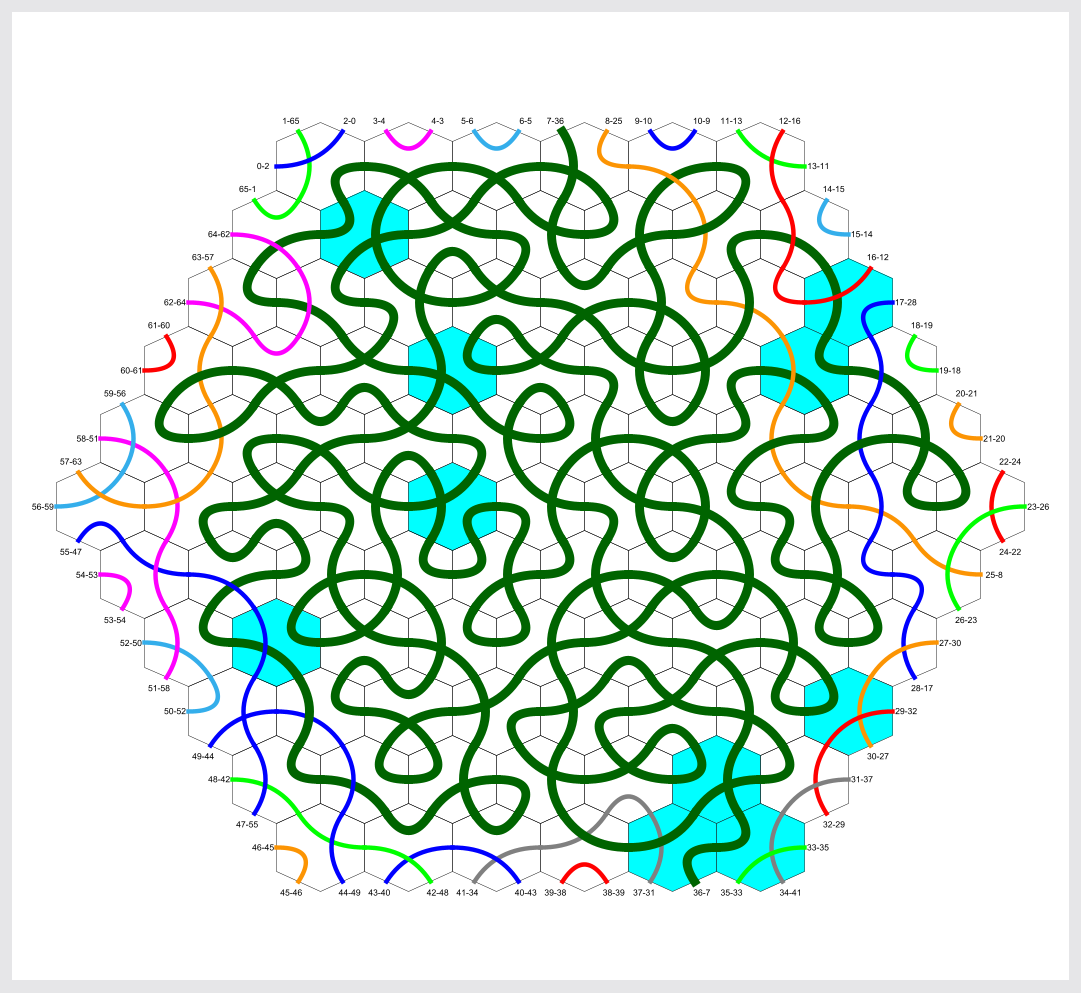
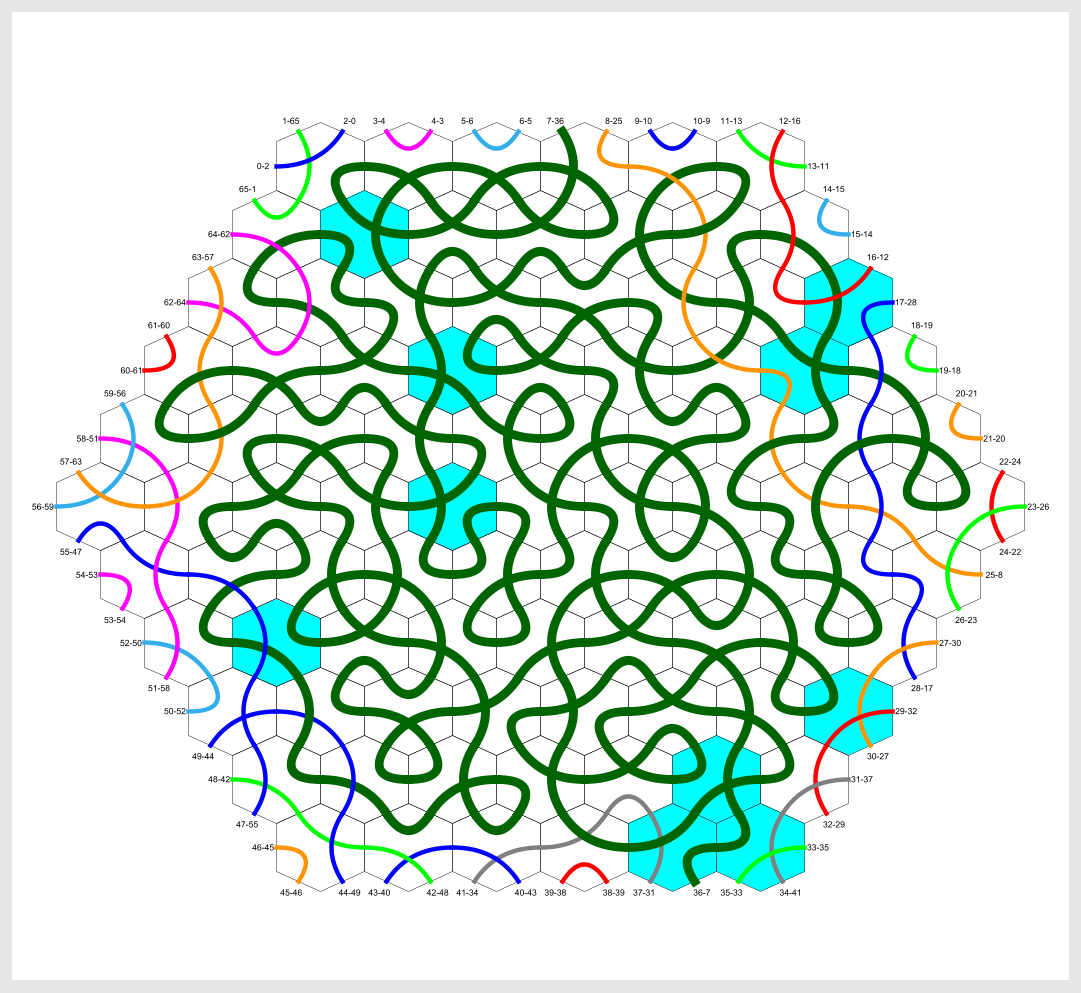
Add destruction-aware special path search

diff --git a/src/HexTiles.rs b/src/HexTiles.rs
@@ -50,7 +50,6 @@ struct Route {
     tiles: Vec<(usize, u8)>,
     length: usize,
     bonuses: usize,
-    rotations: i32,
 }
 
 #[derive(Clone)]
@@ -64,7 +63,14 @@ struct Node {
     bonuses: usize,
     rotations: i32,
     depth_sum: usize,
+    damaged: u128,
     seen: Vec<u64>,
+}
+
+struct DamageModel {
+    cell_masks: Vec<u128>,
+    contributions: Vec<i64>,
+    base: Stats,
 }
 
 struct Board {
@@ -161,6 +167,52 @@ impl Board {
         s.score = (s.matched as i64 * (s.total - self.M as i64 * s.moves as i64)).max(0);
         s
     }
+
+    fn damage_model(&self, orientation: &[u8]) -> DamageModel {
+        let mut cell_masks = vec![0u128; self.valid.len()];
+        let mut contributions = vec![0i64; self.pairs.len()];
+        for (id, pair) in self.pairs.iter().enumerate() {
+            let (end, len, bonuses) = self.trace(orientation, pair[0]);
+            if end != pair[1] { continue; }
+            contributions[id] = (len * (bonuses + 1)) as i64;
+            let (mut cell, mut enter) = self.exits[pair[0]];
+            for _ in 0..=3 * self.valid_count {
+                cell_masks[cell] |= 1u128 << id;
+                let out = paired_dir(orientation[cell], enter);
+                let Some((next, next_enter)) = self.next(cell, out) else { break; };
+                cell = next;
+                enter = next_enter;
+            }
+        }
+        DamageModel { cell_masks, contributions, base: self.evaluate(orientation) }
+    }
+
+    fn tester_safe(&self, orientation: &[u8]) -> bool {
+        let ports = self.valid.len() * 6;
+        let mut globally_seen = vec![false; ports];
+        for start in 0..ports {
+            if !self.valid[start / 6] || globally_seen[start] { continue; }
+            let mut local = std::collections::HashMap::new();
+            let mut state = start;
+            let mut step = 0usize;
+            loop {
+                if globally_seen[state] { break; }
+                if let Some(&began) = local.get(&state) {
+                    if step - began > 400 { return false; }
+                    break;
+                }
+                local.insert(state, step);
+                step += 1;
+                let cell = state / 6;
+                let enter = state % 6;
+                let out = paired_dir(orientation[cell], enter);
+                let Some((next, next_enter)) = self.next(cell, out) else { break; };
+                state = next * 6 + next_enter;
+            }
+            for state in local.keys() { globally_seen[*state] = true; }
+        }
+        true
+    }
 }
 
 fn bit_test(bits: &[u64], cell: usize) -> bool {
@@ -188,7 +240,22 @@ fn orientation_choices(board: &Board, fixed: &[i8], base: &[u8], cell: usize, en
     IntoIterator::into_iter(best).enumerate().filter_map(|(out, x)| x.map(|(o, c)| (out, o, c))).collect()
 }
 
-fn route_rank(board: &Board, node: &Node, target_cell: usize, width: usize, special: bool) -> i64 {
+fn damage_loss(model: &DamageModel, mut mask: u128) -> (usize, i64) {
+    let mut count = 0usize;
+    let mut total = 0i64;
+    while mask != 0 {
+        let id = mask.trailing_zeros() as usize;
+        mask &= mask - 1;
+        count += 1;
+        total += model.contributions[id];
+    }
+    (count, total)
+}
+
+fn route_rank(
+    board: &Board, node: &Node, target_cell: usize, width: usize, special: bool,
+    damage: Option<&DamageModel>,
+) -> i64 {
     let r = node.cell / board.W;
     let c = node.cell % board.W;
     let tr = target_cell / board.W;
@@ -196,8 +263,19 @@ fn route_rank(board: &Board, node: &Node, target_cell: usize, width: usize, spec
     let heuristic = (r.abs_diff(tr) + c.abs_diff(tc)) as i64;
     if special {
         // Length and bonuses reinforce one another. A small target heuristic keeps
-        // the beam capable of closing after taking a profitable detour.
-        180 * (node.length * (node.bonuses + 1)) as i64
+        // the beam capable of closing after taking a profitable detour.  Once the
+        // perimeter has been secured, depth is useful: it steers the reserved pair
+        // through a gate into otherwise unused interior tiles.
+        let intrinsic = (node.length * (node.bonuses + 1)) as i64;
+        let predicted_gain = if let Some(model) = damage {
+            let (lost_k, lost_t) = damage_loss(model, node.damaged);
+            let old_q = model.base.total - board.M as i64 * model.base.moves as i64;
+            let new_k = model.base.matched.saturating_sub(lost_k) + 1;
+            let delta_k = new_k as i64 - model.base.matched as i64;
+            let delta_q = intrinsic - lost_t - board.M as i64 * node.rotations as i64;
+            delta_k * old_q + new_k as i64 * delta_q
+        } else { 0 };
+        (if damage.is_some() { 40 * predicted_gain + 80 * intrinsic } else { 180 * intrinsic })
             - 12 * board.M as i64 * node.rotations as i64
             - 5 * heuristic
             - node.depth_sum as i64
@@ -221,7 +299,7 @@ fn reconstruct(arena: &[Node], mut id: usize) -> Route {
         id = n.parent;
     }
     tiles.reverse();
-    Route { tiles, length: last.length, bonuses: last.bonuses, rotations: last.rotations }
+    Route { tiles, length: last.length, bonuses: last.bonuses }
 }
 
 fn find_route(
@@ -232,6 +310,7 @@ fn find_route(
     target: usize,
     width: usize,
     special: bool,
+    damage: Option<&DamageModel>,
     deadline: Instant,
 ) -> Option<Route> {
     if Instant::now() >= deadline { return None; }
@@ -242,6 +321,7 @@ fn find_route(
         cell: start_cell, enter: start_side, placed_cell: usize::MAX,
         parent: usize::MAX, orientation: 255,
         length: 0, bonuses: 0, rotations: 0, depth_sum: 0, seen: vec![0; words],
+        damaged: 0,
     };
     let mut arena = vec![root];
     let mut beam = vec![0usize];
@@ -268,6 +348,9 @@ fn find_route(
                     bonuses: p.bonuses + board.bonus[p.cell] as usize,
                     rotations: p.rotations + rotation_cost(board.initial[p.cell], o),
                     depth_sum: p.depth_sum + board.boundary_depth[p.cell],
+                    damaged: p.damaged | if o != base[p.cell] {
+                        damage.map_or(0, |m| m.cell_masks[p.cell])
+                    } else { 0 },
                     seen,
                 };
                 if let Some((nc, ne)) = board.next(p.cell, out) {
@@ -296,7 +379,9 @@ fn find_route(
                 }
             }
         }
-        next_beam.sort_unstable_by_key(|&id| Reverse(route_rank(board, &arena[id], target_cell, width, special)));
+        next_beam.sort_unstable_by_key(|&id| Reverse(route_rank(
+            board, &arena[id], target_cell, width, special, damage,
+        )));
         next_beam.truncate(beam_width);
         beam = next_beam;
         if !special && !goals.is_empty() { break; }
@@ -321,17 +406,27 @@ fn pair_priority(board: &Board, pair: [usize; 2]) -> usize {
     ar.abs_diff(br) + ac.abs_diff(bc)
 }
 
-fn build_outer(board: &Board, width: usize, deadline: Instant) -> Vec<u8> {
+fn build_outer(
+    board: &Board,
+    width: usize,
+    reserved: &[usize],
+    deadline: Instant,
+) -> (Vec<u8>, Vec<i8>) {
     let mut orientation = board.initial.clone();
     let mut fixed = vec![-1i8; orientation.len()];
     let mut best = orientation.clone();
+    let mut best_fixed = fixed.clone();
     let mut best_stats = board.evaluate(&best);
-    let mut order: Vec<usize> = (0..board.pairs.len()).collect();
+    let mut order: Vec<usize> = (0..board.pairs.len())
+        .filter(|i| !reserved.contains(i))
+        .collect();
     order.sort_unstable_by_key(|&i| pair_priority(board, board.pairs[i]));
     for i in order {
         if Instant::now() >= deadline { break; }
         let pair = board.pairs[i];
-        if let Some(route) = find_route(board, &orientation, &fixed, pair[0], pair[1], width, false, deadline) {
+        if let Some(route) = find_route(
+            board, &orientation, &fixed, pair[0], pair[1], width, false, None, deadline,
+        ) {
             apply_route(&mut orientation, &mut fixed, &route, true);
             let stats = board.evaluate(&orientation);
             if (stats.score, stats.matched, stats.total - board.M as i64 * stats.moves as i64)
@@ -339,10 +434,11 @@ fn build_outer(board: &Board, width: usize, deadline: Instant) -> Vec<u8> {
             {
                 best_stats = stats;
                 best = orientation.clone();
+                best_fixed = fixed.clone();
             }
         }
     }
-    best
+    (best, best_fixed)
 }
 
 fn special_order(board: &Board) -> Vec<usize> {
@@ -352,42 +448,65 @@ fn special_order(board: &Board) -> Vec<usize> {
     ids
 }
 
-fn build_with_specials(
-    board: &Board,
-    outer: &[u8],
-    width: usize,
-    special_ids: &[usize],
-    count: usize,
-    deadline: Instant,
-) -> (Vec<u8>, i64, usize) {
-    let mut orientation = outer.to_vec();
-    let mut fixed = vec![-1i8; orientation.len()];
-    let mut chosen: Vec<usize> = Vec::new();
-    let mut special_value = 0i64;
-    let mut special_done = 0usize;
-    for _ in 0..count.min(special_ids.len()) {
-        let mut pick: Option<(i64, i64, usize, Route)> = None;
-        for &id in special_ids {
-            if chosen.contains(&id) || Instant::now() >= deadline { continue; }
-            let p = board.pairs[id];
-            if let Some(route) = find_route(board, &orientation, &fixed, p[0], p[1], width, true, deadline) {
-                let mut trial = orientation.clone();
-                let mut ignored = fixed.clone();
-                apply_route(&mut trial, &mut ignored, &route, false);
-                let stats = board.evaluate(&trial);
-                let q = stats.total - board.M as i64 * stats.moves as i64;
-                let intrinsic = (route.length * (route.bonuses + 1)) as i64
-                    - board.M as i64 * route.rotations as i64;
-                if pick.as_ref().map_or(true, |x| (q, intrinsic) > (x.0, x.1)) {
-                    pick = Some((q, intrinsic, id, route));
+fn open_reserved_gates(board: &Board, fixed: &mut [i8], chosen: &[usize], width: usize) {
+    let mut dist = vec![usize::MAX; board.valid.len()];
+    let mut q = VecDeque::new();
+    for &id in chosen {
+        for &exit in &board.pairs[id] {
+            let cell = board.exits[exit].0;
+            if dist[cell] != 0 {
+                dist[cell] = 0;
+                q.push_back(cell);
+            }
+        }
+    }
+    // A small open patch around each reserved endpoint is the gate.  Normal paths
+    // outside it remain protected; paths crossing the patch may be repaired later.
+    let radius = width + 1;
+    while let Some(cell) = q.pop_front() {
+        fixed[cell] = -1;
+        if dist[cell] == radius { continue; }
+        for d in 0..6 {
+            if let Some((next, _)) = board.next(cell, d) {
+                if dist[next] == usize::MAX {
+                    dist[next] = dist[cell] + 1;
+                    q.push_back(next);
                 }
             }
         }
-        let Some((_, _, id, route)) = pick else { break; };
-        chosen.push(id);
-        special_value += (route.length * (route.bonuses + 1)) as i64;
-        special_done += 1;
-        apply_route(&mut orientation, &mut fixed, &route, true);
+    }
+}
+
+fn build_with_specials(
+    board: &Board,
+    outer: &[u8],
+    outer_fixed: &[i8],
+    width: usize,
+    chosen: &[usize],
+    deadline: Instant,
+) -> (Vec<u8>, i64, usize) {
+    let mut orientation = outer.to_vec();
+    let mut fixed = outer_fixed.to_vec();
+    for cell in 0..fixed.len() {
+        if board.valid[cell] && board.boundary_depth[cell] > width {
+            fixed[cell] = -1;
+        }
+    }
+    open_reserved_gates(board, &mut fixed, chosen, width);
+    let mut special_value = 0i64;
+    let mut special_done = 0usize;
+    for &id in chosen {
+        if Instant::now() >= deadline { break; }
+        let p = board.pairs[id];
+        let use_damage_dp = (board.W + 1) / 2 >= 16 && board.M <= 2;
+        let damage = use_damage_dp.then(|| board.damage_model(&orientation));
+        if let Some(route) = find_route(
+            board, &orientation, &fixed, p[0], p[1], width, true, damage.as_ref(), deadline,
+        ) {
+            special_value += (route.length * (route.bonuses + 1)) as i64;
+            special_done += 1;
+            apply_route(&mut orientation, &mut fixed, &route, true);
+        }
     }
     let mut best_orientation = orientation.clone();
     let mut best_stats = board.evaluate(&orientation);
@@ -398,7 +517,9 @@ fn build_with_specials(
     for id in order {
         if Instant::now() >= deadline { break; }
         let p = board.pairs[id];
-        if let Some(route) = find_route(board, &orientation, &fixed, p[0], p[1], width, false, deadline) {
+        if let Some(route) = find_route(
+            board, &orientation, &fixed, p[0], p[1], width, false, None, deadline,
+        ) {
             apply_route(&mut orientation, &mut fixed, &route, true);
             let stats = board.evaluate(&orientation);
             let q = stats.total - board.M as i64 * stats.moves as i64;
@@ -475,6 +596,7 @@ fn search_rotations(board: &Board, orientation: &mut Vec<u8>, start: Instant, de
             current_stats = next;
             if (next.score, next.matched, next.total, Reverse(next.moves))
                 > (best_stats.score, best_stats.matched, best_stats.total, Reverse(best_stats.moves))
+                && board.tester_safe(&current)
             {
                 best_stats = next;
                 best.clone_from(&current);
@@ -577,26 +699,36 @@ fn main() {
 
     for &width in &WIDTHS {
         if Instant::now() >= deadline { break; }
-        // Reserve roughly equal time for remaining widths; every special count uses
-        // this same outer connector, making the requested 0/1/2/3 comparison direct.
+        // Baseline with no reserved gate.
         let outer_deadline = Instant::now() + Duration::from_millis(1500);
-        let outer = build_outer(&board, width, outer_deadline.min(deadline));
+        let (outer, _) = build_outer(&board, width, &[], outer_deadline.min(deadline));
         let outer_stats = board.evaluate(&outer);
         eprintln!("config width={} special=0 done=0 special_t=0 k={} t={} m={} score={}",
             width, outer_stats.matched, outer_stats.total, outer_stats.moves, outer_stats.score);
-        if outer_stats.score > best_stats.score { best_stats = outer_stats; best_orientation = outer.clone(); }
+        if outer_stats.score > best_stats.score && board.tester_safe(&outer) {
+            best_stats = outer_stats;
+            best_orientation = outer.clone();
+        }
         for count in 1..=MAX_SPECIAL {
             if Instant::now() >= deadline { break; }
-            let per_config = Instant::now() + Duration::from_millis(700);
+            let chosen = &specials[..count.min(specials.len())];
+            // Rebuild the perimeter while deliberately leaving the chosen exits
+            // open.  The returned fixed mask is the set of secured short paths.
+            let outer_config_deadline = (Instant::now() + Duration::from_millis(450)).min(deadline);
+            let (gated_outer, gated_fixed) =
+                build_outer(&board, width, chosen, outer_config_deadline);
+            let gated_stats = board.evaluate(&gated_outer);
+            let per_config = Instant::now() + Duration::from_millis(550);
             let (mut candidate, special_t, done) = build_with_specials(
-                &board, &outer, width, &specials, count, per_config.min(deadline));
+                &board, &gated_outer, &gated_fixed, width, chosen, per_config.min(deadline));
             let polish_deadline = (Instant::now() + Duration::from_millis(90)).min(deadline);
             polish(&board, &mut candidate, polish_deadline);
             let stats = board.evaluate(&candidate);
-            let destroyed = outer_stats.matched.saturating_sub(stats.matched);
-            eprintln!("config width={} special={} done={} special_t={} destroyed={} k={} t={} m={} score={}",
-                width, count, done, special_t, destroyed, stats.matched, stats.total, stats.moves, stats.score);
-            if stats.score > best_stats.score {
+            let destroyed = gated_stats.matched.saturating_sub(stats.matched);
+            eprintln!("gated width={} reserved={} done={} gate_k={} special_t={} destroyed={} k={} t={} m={} score={}",
+                width, count, done, gated_stats.matched, special_t, destroyed,
+                stats.matched, stats.total, stats.moves, stats.score);
+            if stats.score > best_stats.score && board.tester_safe(&candidate) {
                 best_stats = stats;
                 best_orientation = candidate;
             }

diff --git a/idea.md b/idea.md
@@ -29,3 +29,15 @@
 スコアを `k(t-Mm)` と分解し、外周幅1～3と特選経路0～3本を同じ外周構築から比較する。通常経路は深さ超過を二乗罰し、特選経路は `length*(bonus+1)-M*rotation` と完成盤面で失う接続を評価する。特選タイルを保護した後に通常ペアを短い順で再配線し、各追加直後の完成盤面を厳密評価して最良prefixを残す。
 
 seed 1～10では特選本数の最適値は一定でなく、長大経路の追加で接続を多く壊すseedでは0～1本が優位だった。構築後は1～4タイルの同時回転を時間制御SAで探索すると、経路単位構築では届かない相乗的な変更を回収できた。全盤面の実スコアを常に最良解判定に使い、補助エネルギーはスコア・接続数・純得点だけに限定する。
+
+外周先行型では、特選候補を通常ペア構築から予約しておき、短経路を貪欲に作った後で外周シェルだけを固定する。予約出口の周囲を外周幅+1だけ局所解放してゲートとし、内側は再び自由にして長大経路を作る。通常経路全体を固定すると内部が分断され、入口だけ開けても特選経路が完成しない。外周シェル固定・局所ゲート・内部解放の組合せなら、確保済み接続を概ね残しつつ内部資源を利用できる。
+
+seed 1～10でゲート方式は `mean_log10` を 5.063469 から 5.087280へ改善した。特にseed 5は285880から376277、seed 8は828000から1005680へ伸びた。盤面内に非常に長いループが生じるとJava testerの再帰描画がスタック超過するため、最良盤面更新時に長さ400超の内部ループを除外する。
+
+周期1x1・1x2・2x2・2x3を全列挙し、無限格子上のポート遷移が短い閉路でなく並進成分になる配置を抽出した。周期配置を特選Beamの優先向きとして使うと、特選経路単体の `length*(bonus+1)` が数倍になるseedがあり、周期構造による長大化は実際に機能した。ただし複数テンプレートを逐次Beamで試す方式はSA時間を削り、seed 1～10の `mean_log10` はゲート版5.087280に対して5.079178だった。次はテンプレートごとの再探索ではなく、ブロック境界の接続型と長さを事前計算し、境界DPでテンプレート列を一度に選ぶ。
+
+内部周期を完全固定してゲート周辺だけ探索する方法も試したが、周期成分の出口と目標ゲートが一致しにくく、代表seedでゲート版を下回った。周期配置は単一パターンを敷くのでなく、境界ポート写像が異なるマクロを複数用意し、DPで入口から目標出口へ写像を合成する必要がある。
+
+2x2マクロの全1296配置から、入口境界ポート→出口境界ポート、長さ、ユニークボーナス数、回転数、向き割当を列挙し、内部最大矩形を蛇行するマクロ列へ境界DPを適用した。内部区間自体はBeamなしで構成でき、seed 5では従来の特選値940に対して1064を得たが、代表seed 2・5・8の最終スコアはゲート版以下だった。DP状態が単一経路の局所価値しか持たず、外周接続の破壊 `Δk` を評価できないことが主因。特選Beamの訪問単位をタイルからポートへ変更すると、同じ向きの別接続再訪によりseed 8の特選値は最大5453まで伸びたが、探索時間増加と接続破壊で最終スコアは改善しなかった。
+
+外周盤面の各matched pathを成分IDとし、各タイルへ「向きを変えると破壊し得る成分集合」のu128マスクを付ける。特選経路状態に破壊マスクを持たせ、`ΔS=Δk*Q+(k+Δk)*Δq` の予測値で順位付けすると、長さだけでなく既存接続維持を直接評価できる。これは `N>=16 && M<=2` で有効で、seed 1～10の `mean_log10` を5.087280から5.104032へ改善した。高Mや小盤面では回転・探索時間の損失が勝つため従来評価を使う。
